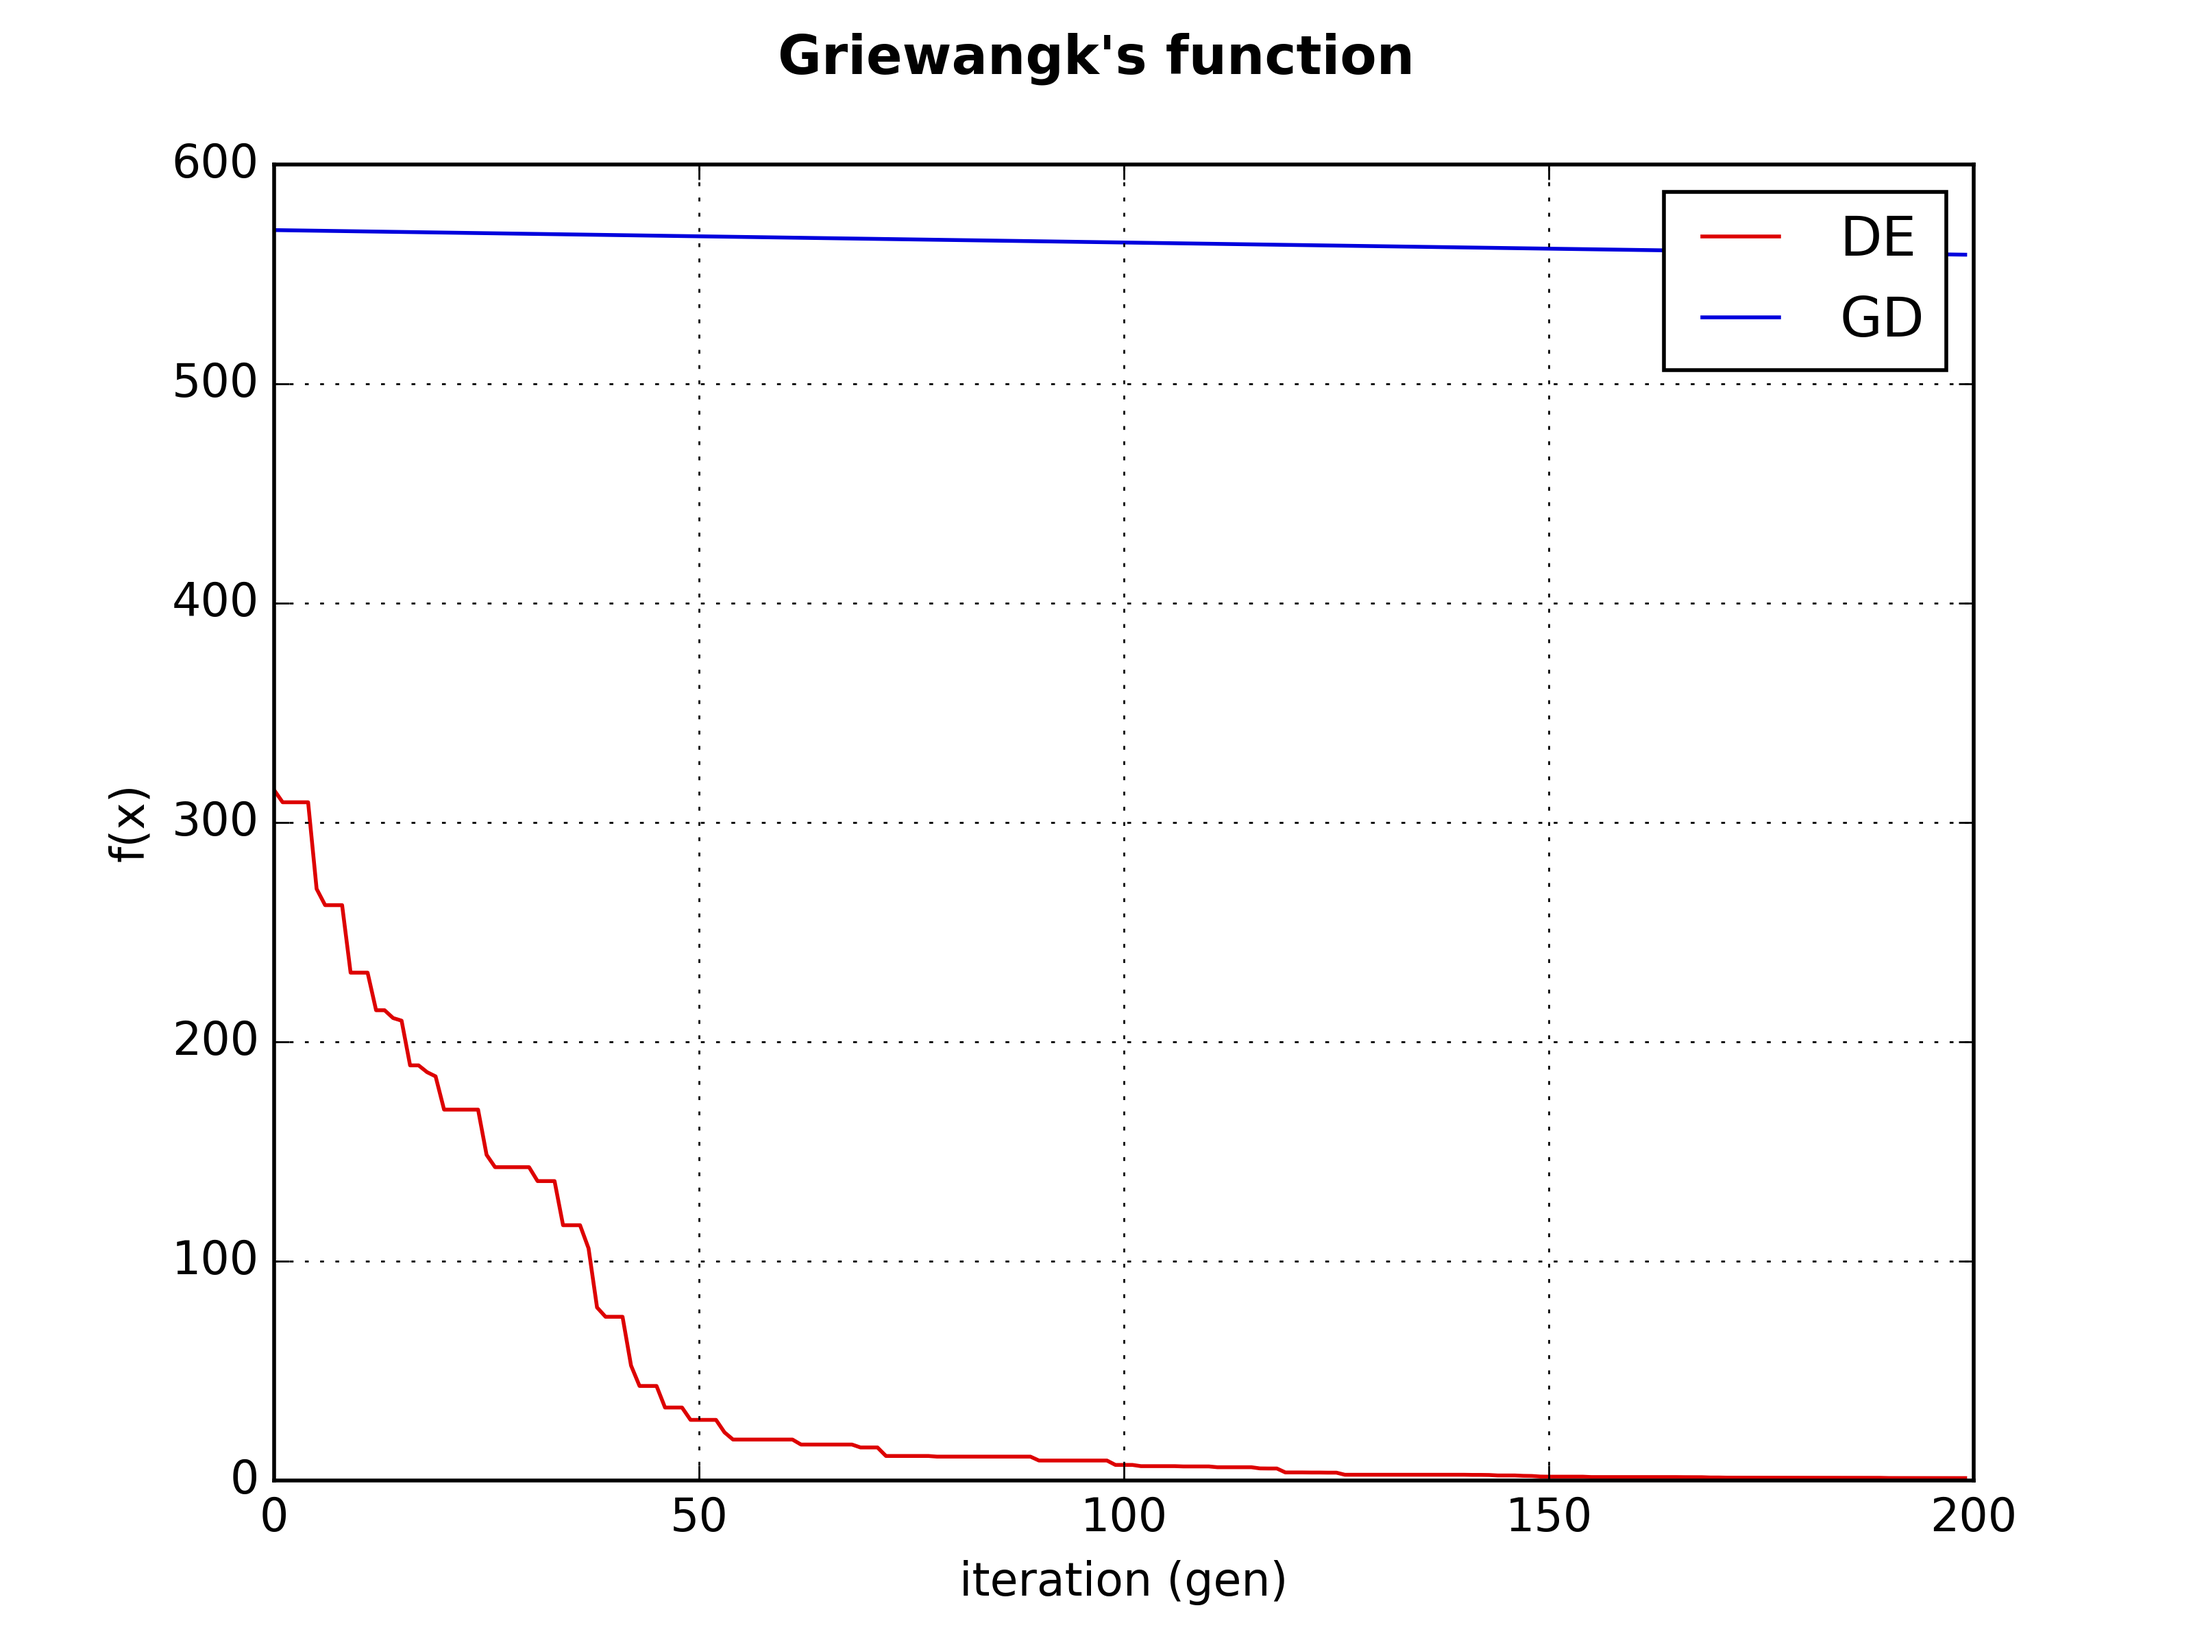
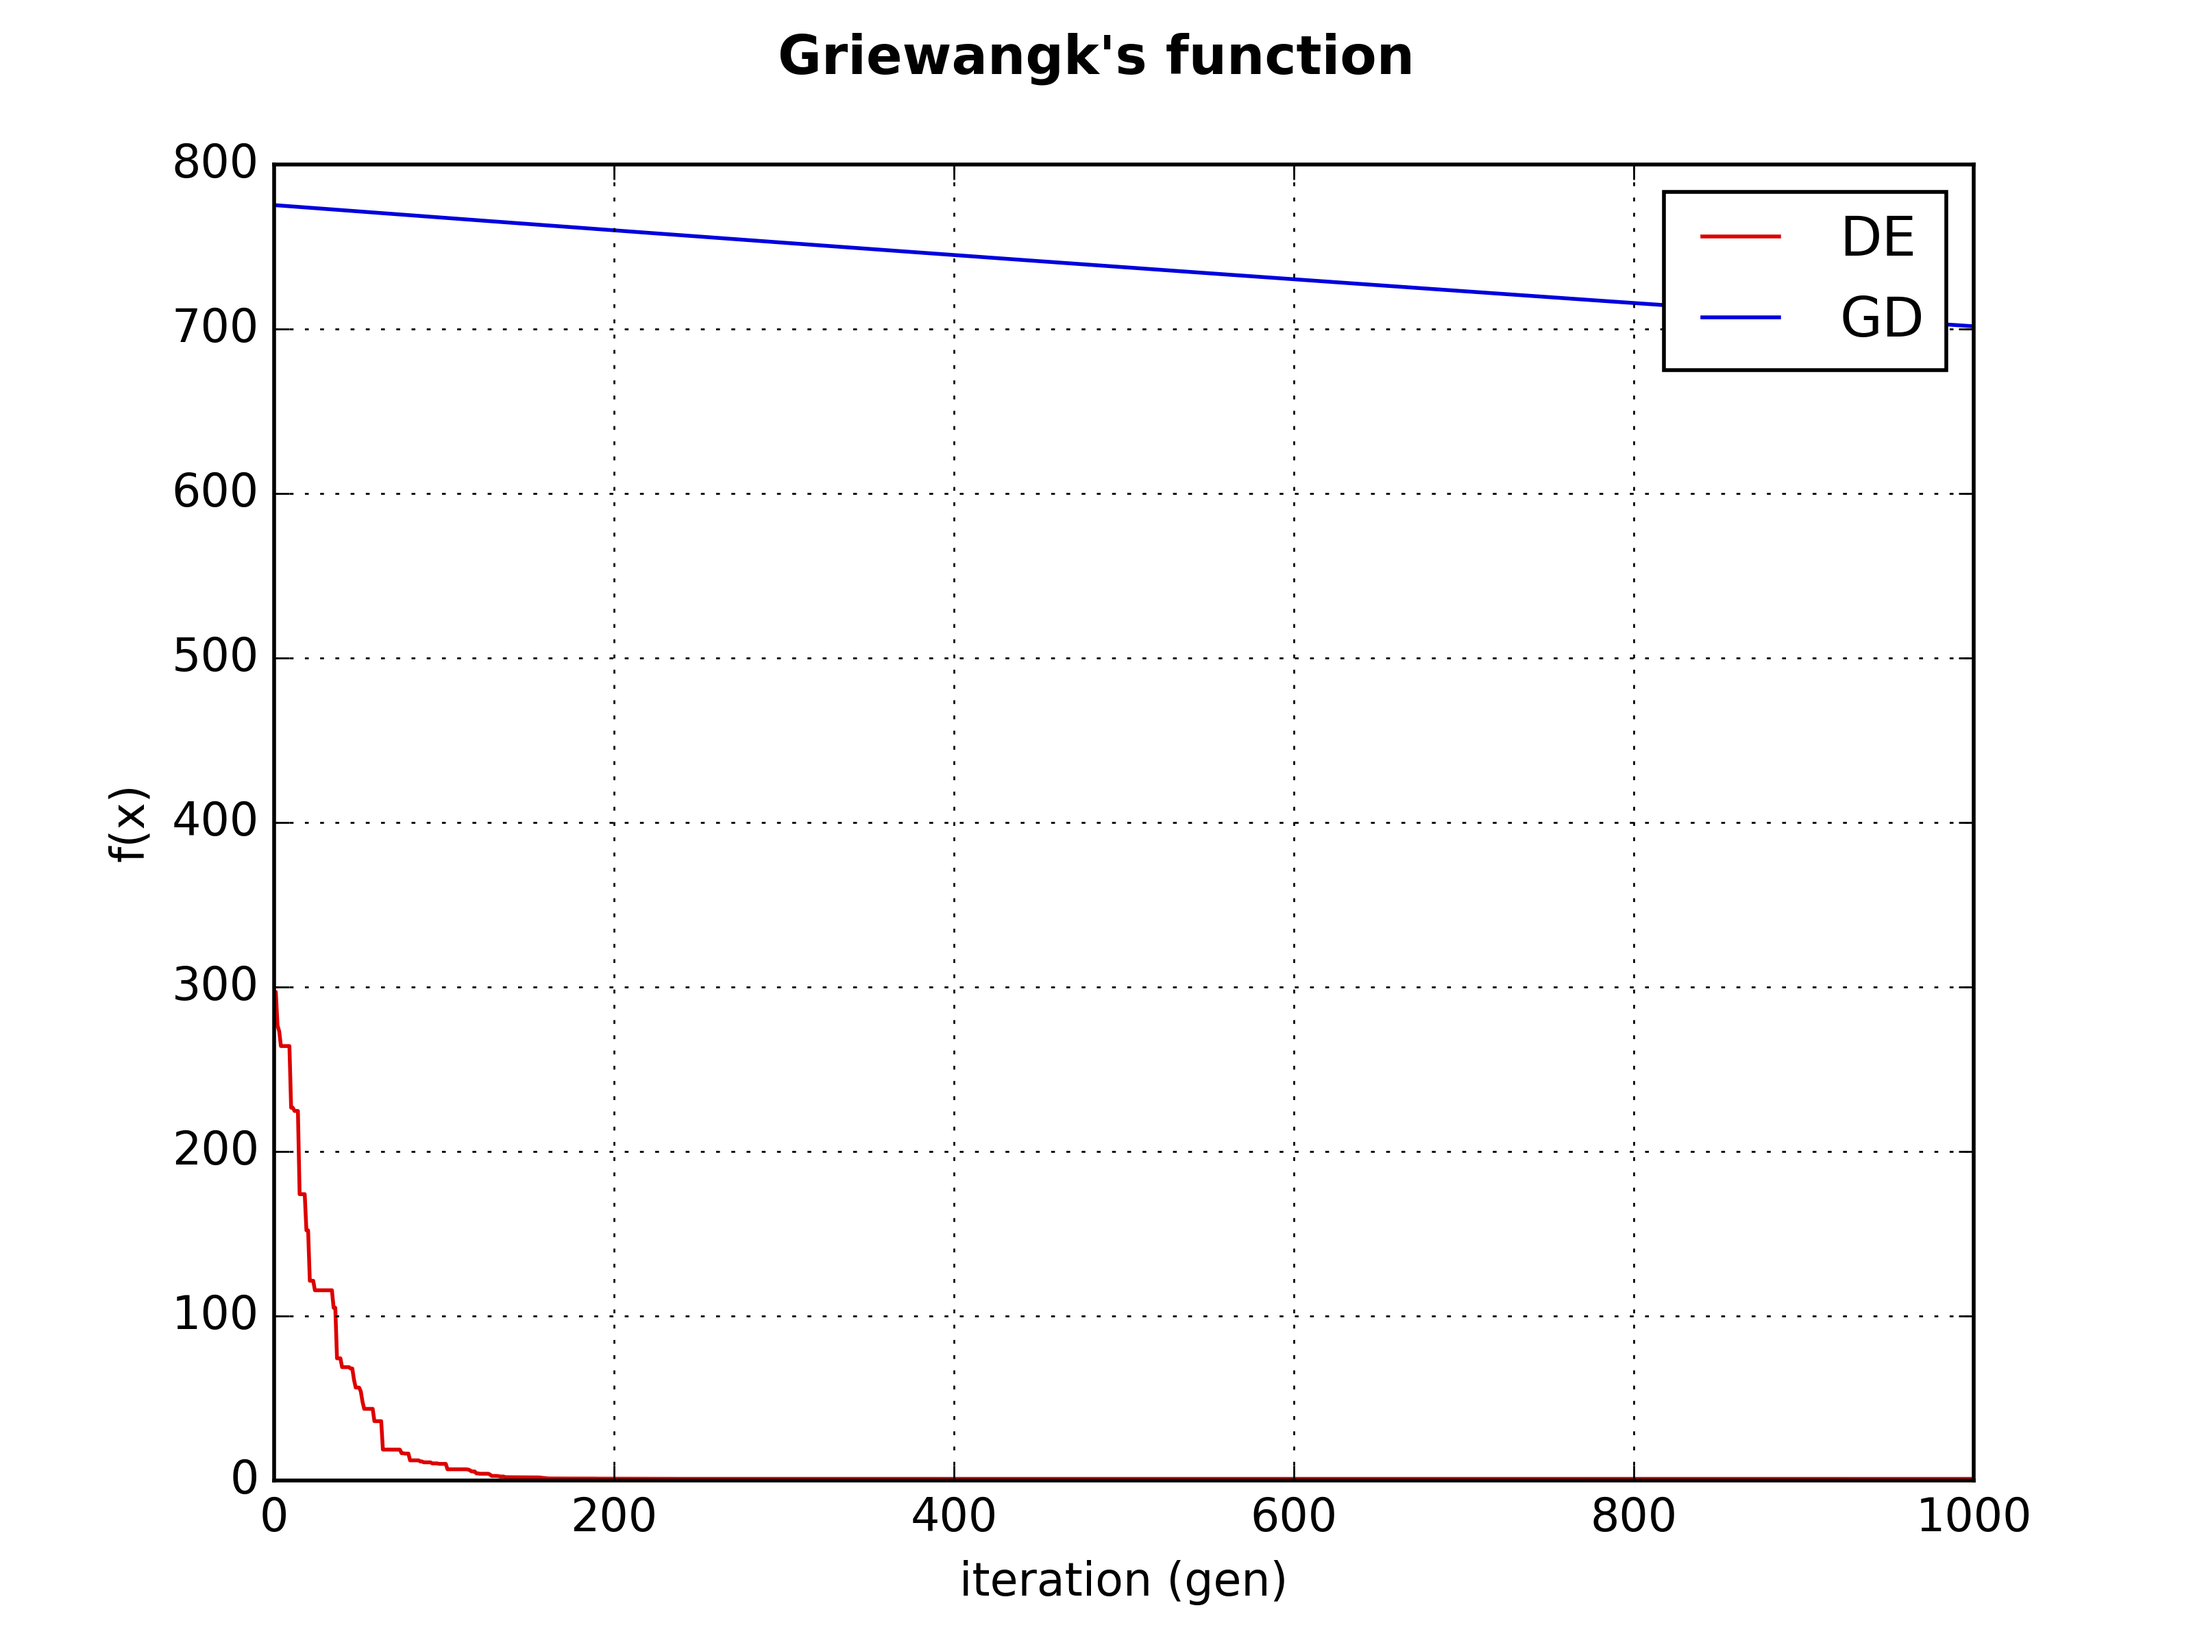
Add new test image

diff --git a/code/vs_test/test.py b/code/vs_test/test.py
@@ -10,7 +10,7 @@ NP = np.int32(100)
 D = np.int32(20)
 W = tf.fill((D, ), np.float64(0.8))
 CR = np.float64(0.5)
-NUM_GEN = 200
+NUM_GEN = 1000
 
 ##
 # Variables
